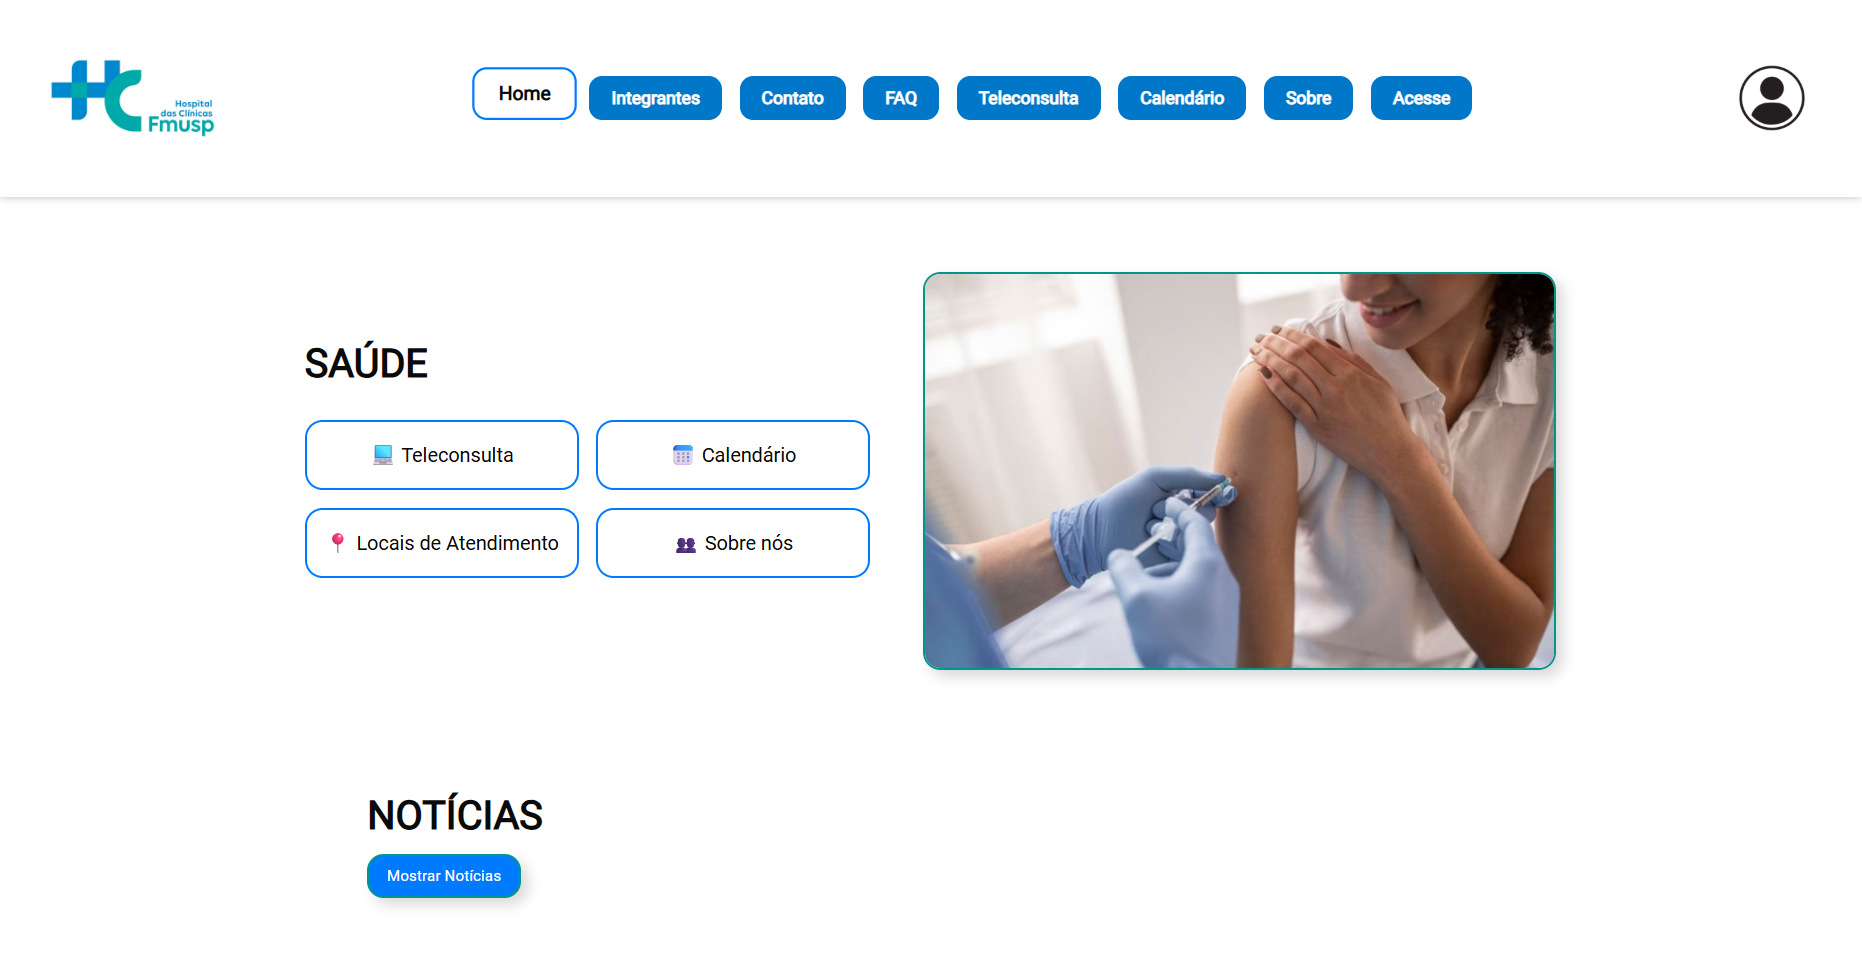
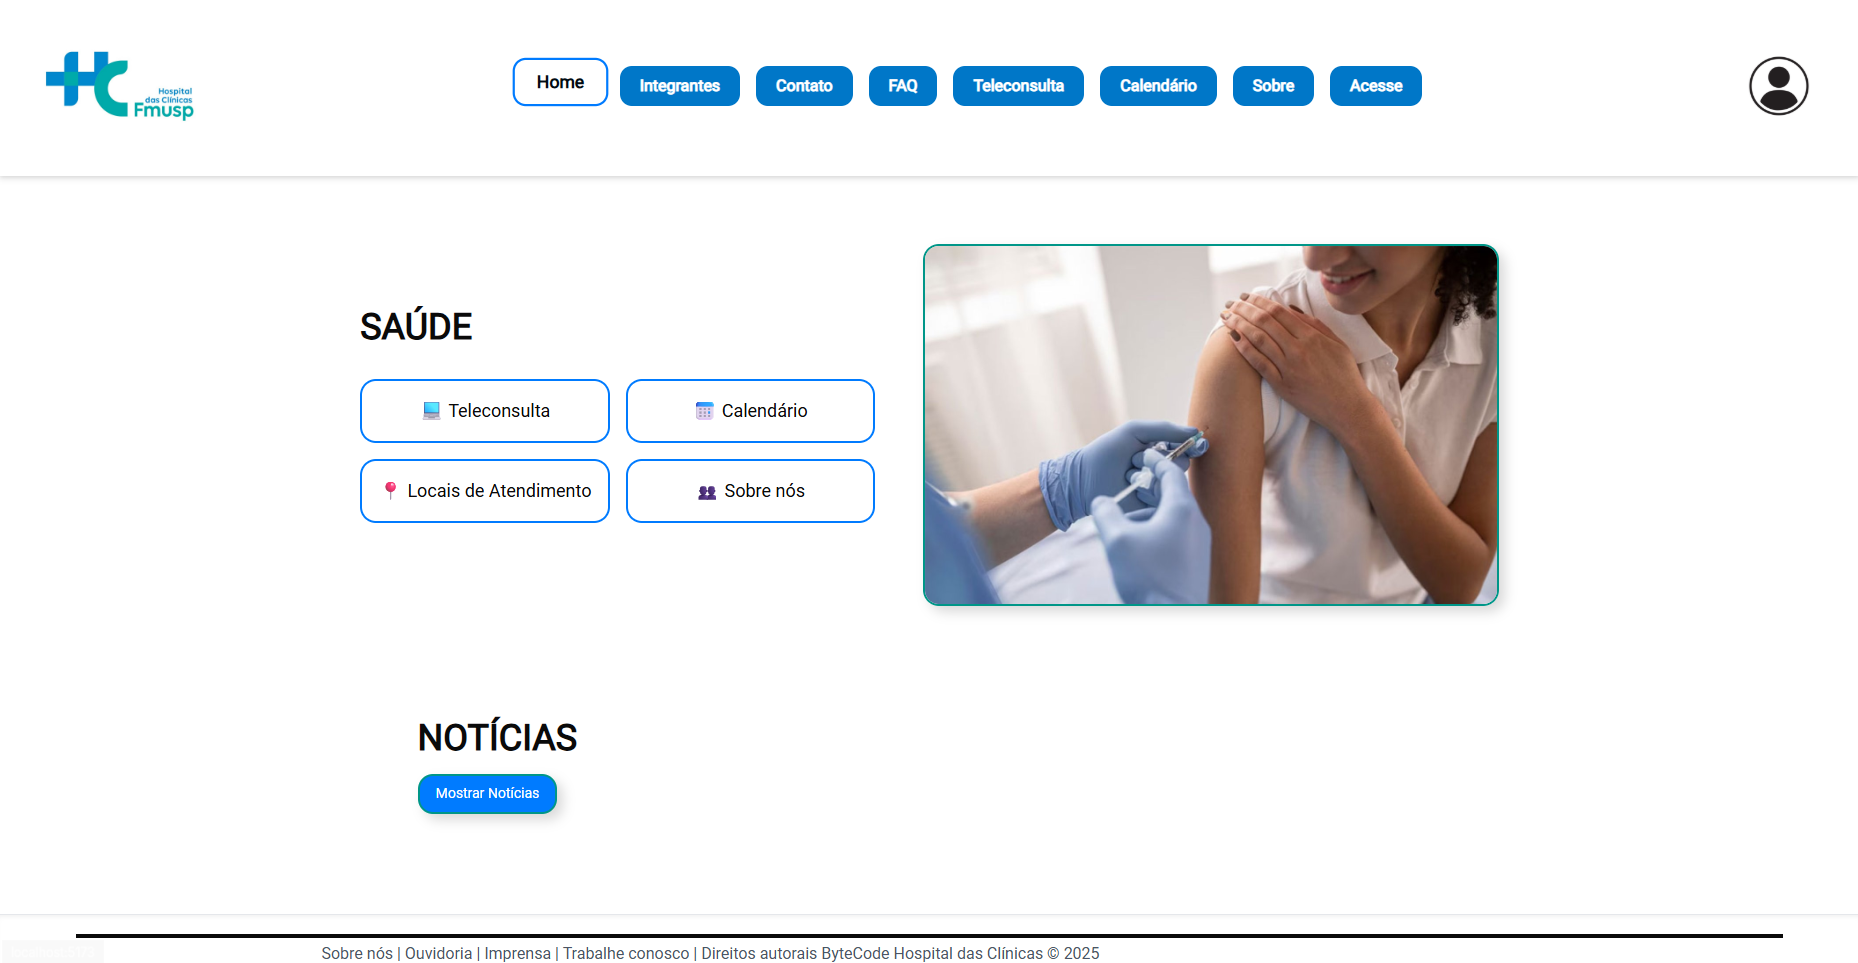
Projeto finalizado.

diff --git a/README.md b/README.md
@@ -26,7 +26,8 @@ Aqui estão algumas telas que demonstram a aparência e as principais funcionali
 -   **Página Inicial**
 ![Página inicial](./Bytecode_HC/docs/images/image.png)
 
--   **Dashboard de Teleconsulta**
+-   **Área de acesso completa usando hookform**
+![Área de acesso do paciente](./Bytecode_HC/docs/images/image1.png)
 
 
 -   **Logo do Projeto**
